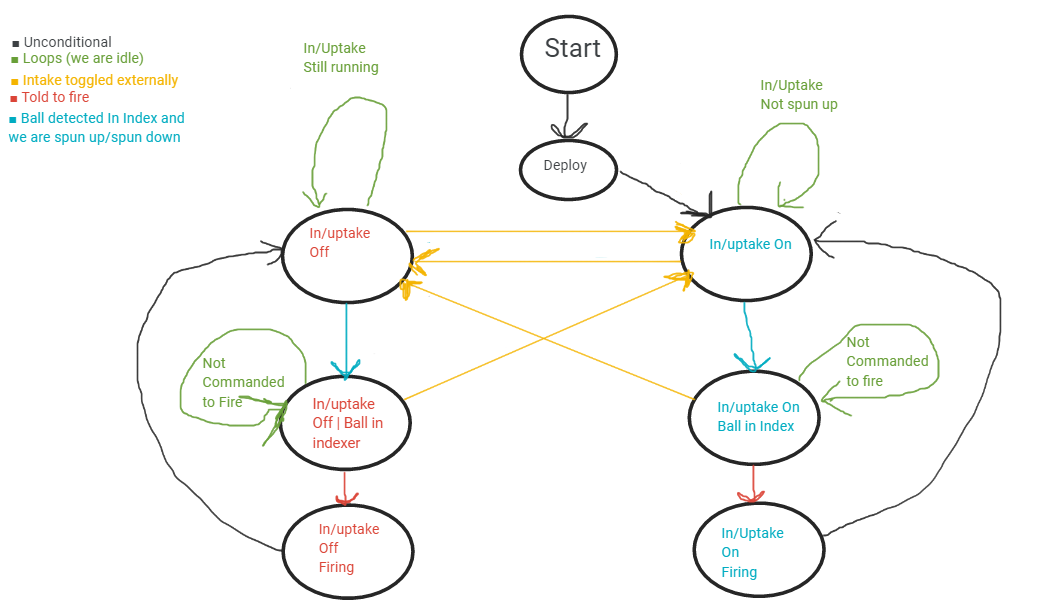
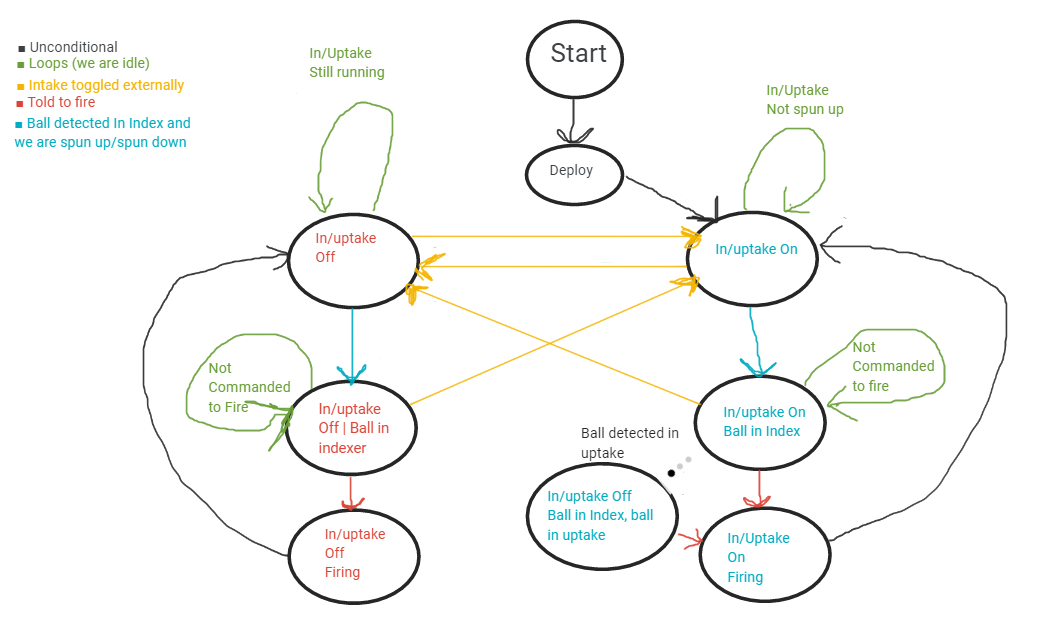
Updated state diagram; agreed on a control scheme.
- README.md: The control scheme for the second, "auxiliary" controller
  is finally agreed upon.  It's not implemented yet, but at least it's
  documented.

- docs/intakeSubsystemStateDiagram.png: Maxwell updated this with an
  extra state.  The idea here is that if the indexer _and_ the uptake
  are full, then we are at our two-ball limit and we need to shut the
  intake motor down.  We are released from this state only when we shoot,
  since that moves us away from the limit.

diff --git a/README.md b/README.md
@@ -10,19 +10,68 @@ This file contains [motor and port assignments](#motor-and-port-assignments), th
 _Note_: for field-oriented swerve to work, the robot must start the match with
 its front side facing away from the driver.
 
-- XBox controller:
-  1. Left joystick: **Field-oriented strafing**
-      Regardless of the orientation of the robot, pushing the left joystick
-      away from you will cause it to drive away from you; moving the joystick
-      to the left will cause the robot to move leftward, and so on.
-  2. Right joystick:
-     1. Horizontal channel: **Rotation**
-         Moving the right joystick to the right turns the robot clockwise;
-         moving it to the left turns the robot counterclockwise.
-     2. Vertical channel: _Unused_
-  3. Right Trigger: **Manual Shoot**
-      Pressing the button will release a ball from the indexer to the shooter
-      manually.
+- **Drive controller** (`XBoxController`):
+    1. Left joystick: **Field-oriented strafing**
+        Regardless of the orientation of the robot, pushing the left joystick
+        away from you will cause it to drive away from you; moving the joystick
+        to the left will cause the robot to move leftward, and so on.
+    1. Right joystick:
+       1. Horizontal channel: **Rotation**
+           Moving the right joystick to the right turns the robot clockwise;
+           moving it to the left turns the robot counterclockwise.
+       2. Vertical channel: _Unused_
+       3. R3 (pressing the right joystick): **Driver Controller Identify**
+           When pressing the right joystick down on the driver controller, it
+           will rumble. This is *only* on the driver controller so that you can
+           identify which controller you are holding regardless of the order
+           they were plugged in.
+    1. Ⓧ button: **Manual Intake reversal**
+        While holding the Ⓧ Button, the Intake motor will run in reverse
+        provided the intake is being told to spin.
+    1. Ⓐ button: **Toggle Intake deployment**
+        Pressing the Ⓐ button will pull the Intake assembly up if it is down, and
+        drop it down if it is up.  Once the Intake state is changed, it will not
+        stop until the state has been reached.
+
+        Note that the Intake is normally fully deployed as soon as the robot
+        powers on (**TODO: this is wrong;** we should only deploy the intake once
+        teleop, test, or autonomous are started.)
+    1. Ⓑ button: **Manual Intake/Uptake disable**
+        Pressing the Ⓑ button will shut off the Intake/Uptake if they are on, and
+        it will turn them on if they are off.
+
+- **Auxiliary controller** (`XBoxController`):
+    1. Left trigger: **Manual override**
+        As long as the left trigger is held down, the functionality of the
+        left bumper (_rotate turntable counterclockwise_), right bumper (_rotate
+        turntable clockwise_), and right trigger (_manual shooting_) will be
+        enabled.  Releasing the right trigger disables all of these controls.
+    1. Left bumper: **Rotate turntable counterclockwise**
+        Pressing the left bumper will cause the shooter turntable to rotate
+        counterclockwise, provided the left trigger (_manual override_) is held
+        down.
+    1. Right trigger: **Manual shooting**
+        Pressing the right trigger will cause the indexer to release any ball
+        that it is holding, making it contact the shooter flywheel and causing
+        it to launch out of the shooter in a parabolic arc.
+    1. Right bumper: **Rotate turntable clockwise**
+        Pressing the right bumper will cause the shooter turntable to rotate
+        clockwise, provided the left trigger (_manual override_) is held
+        down.
+    1. Right joystick:
+        1. R3 (pressing the right joystick): _No-op_ (**Auxiliary Controller Identify**)
+            Unlike the drive controller, pressing the right joystick down on the
+            auxiliary controller does nothing; it will *not* rumble.  This allows
+            you to distinguish between the drive and auxiliary controllers
+            regardless of the order in which they were plugged in.
+    1. Ⓐ button: **Climb up**
+        Pressing the Ⓐ button will pull the climber closer to the robot, which
+        during climbing will cause the robot to raise away from the ground and
+        move closer to the climbing bar.
+    1. Ⓑ button: **Climb down**
+        Pressing the Ⓑ button will push the climber away from the robot, which
+        during climbing will cause the robot to lower toward the ground and
+        move away from the climbing  bar.
 
 ## Motor and port assignments ##
 
@@ -67,6 +116,14 @@ Motor distribution is as follows:
   2. Left Hood Servo Motor (Linear servo @ Servo Power Hub)
   3. Right Hood Servo Motor (Linear servo @ Servo Power Hub)
   4. Shooter Flywheel Motor
+
+### PCM and air circuit ###
+
+- Intake deployment:
+  0. Right intake (deployment?) (12V solenoid @ Pneumatic Control Module)
+  1. Right intake (retraction?) (12V solenoid @ Pneumatic Control Module)
+  2. Left intake (deployment?) (12V solenoid @ Pneumatic Control Module)
+  3. Left intake (retraction?) (12V solenoid @ Pneumatic Control Module)
 
 ## Subsystems ##
 ### Drive ###
